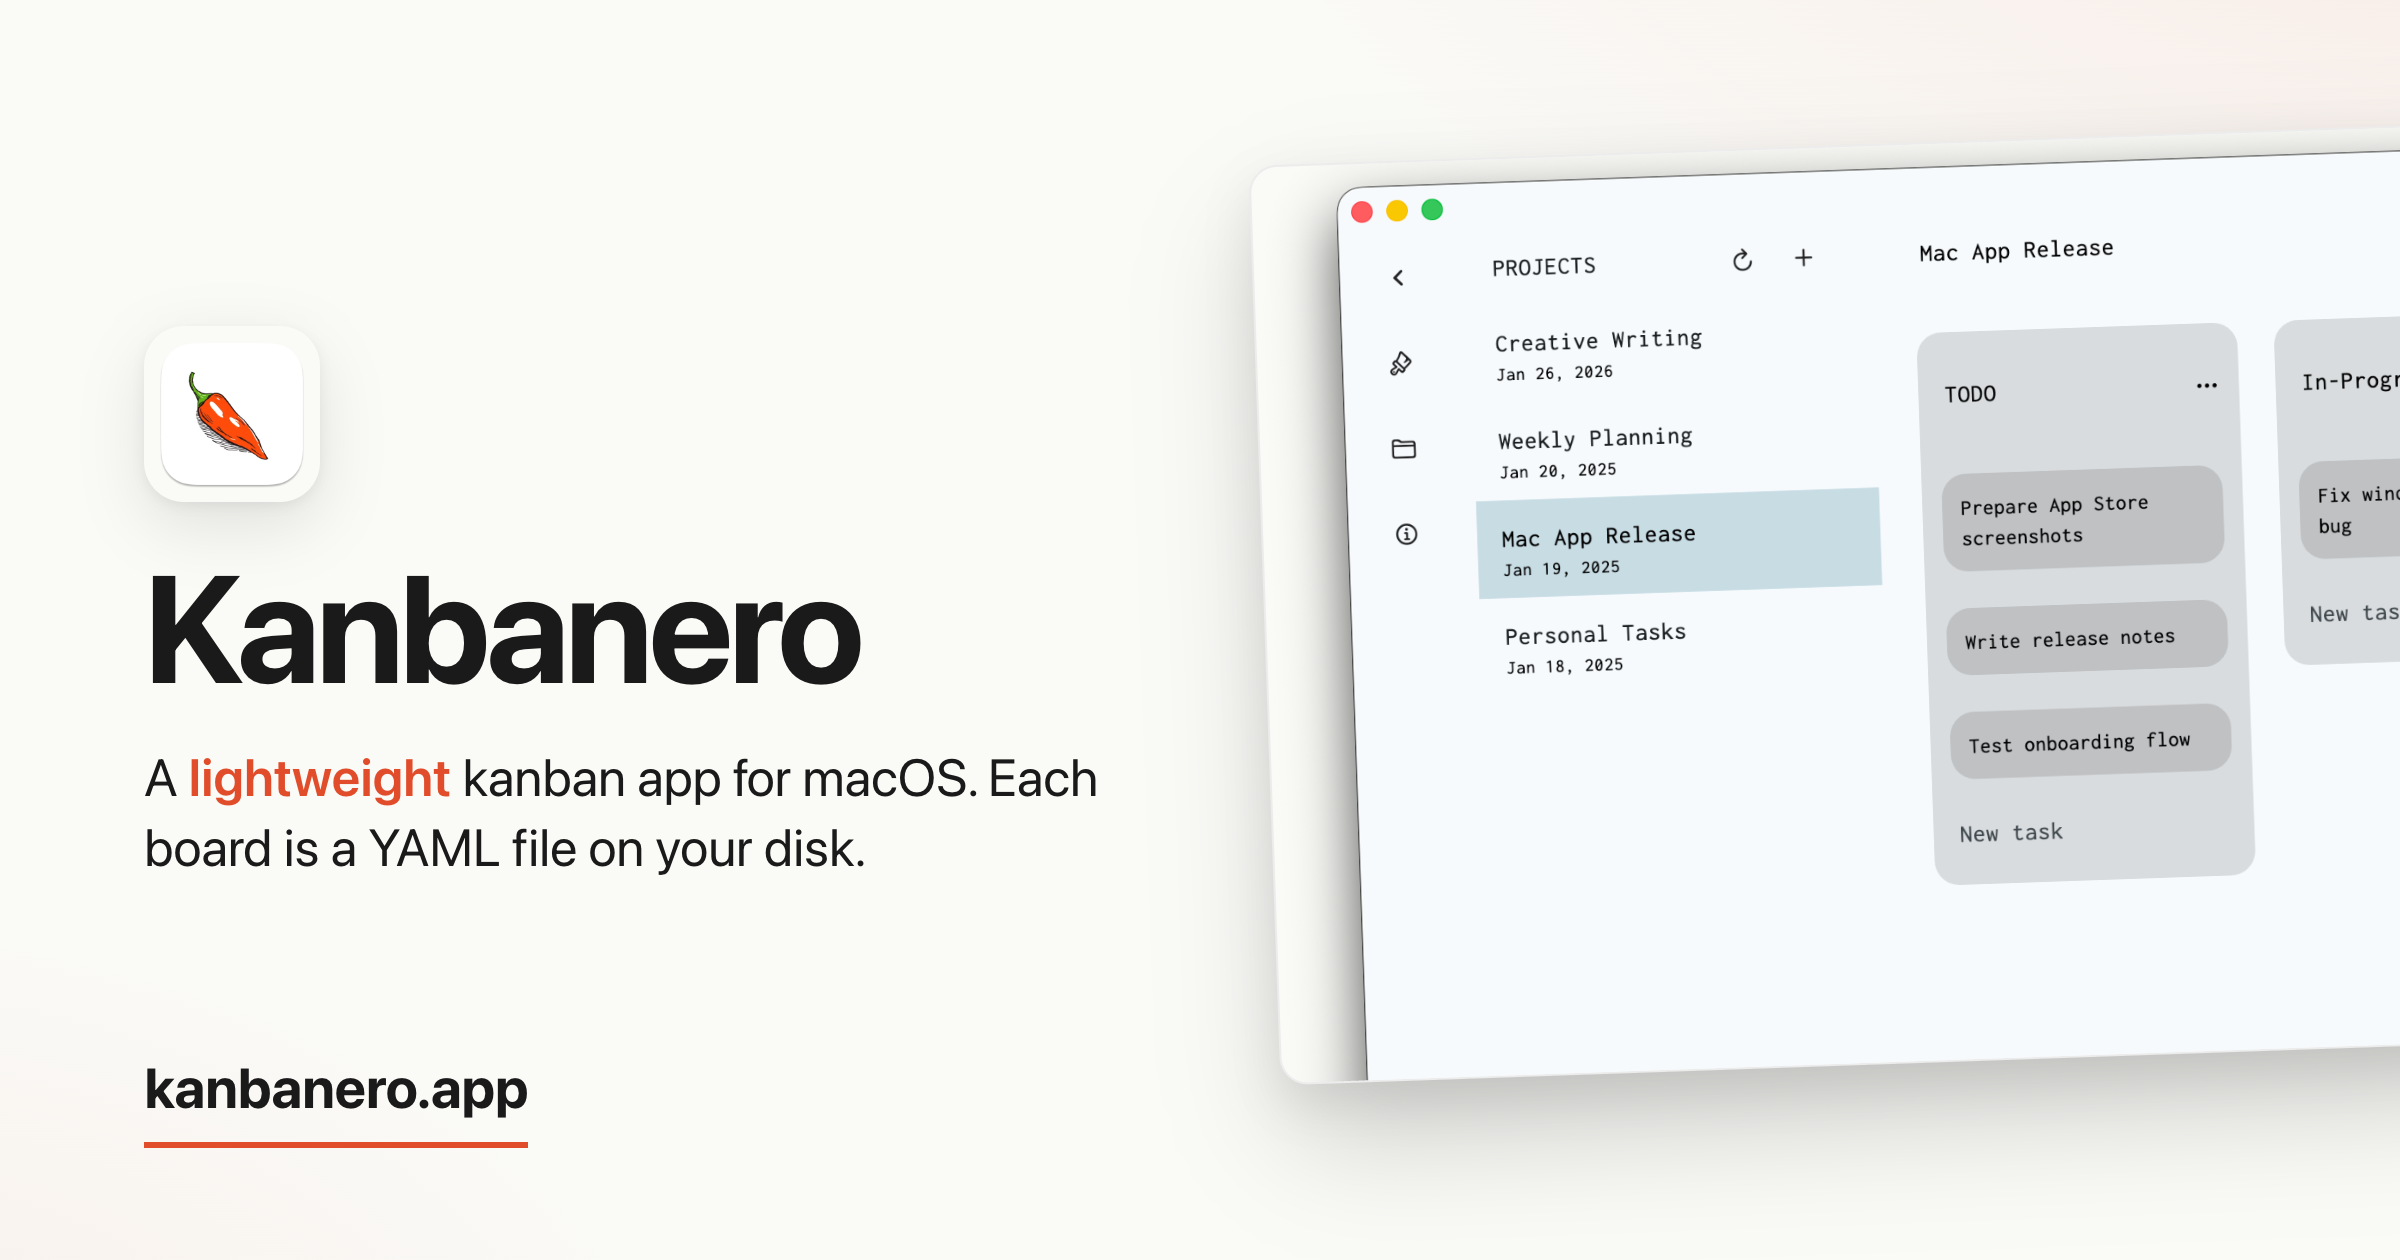
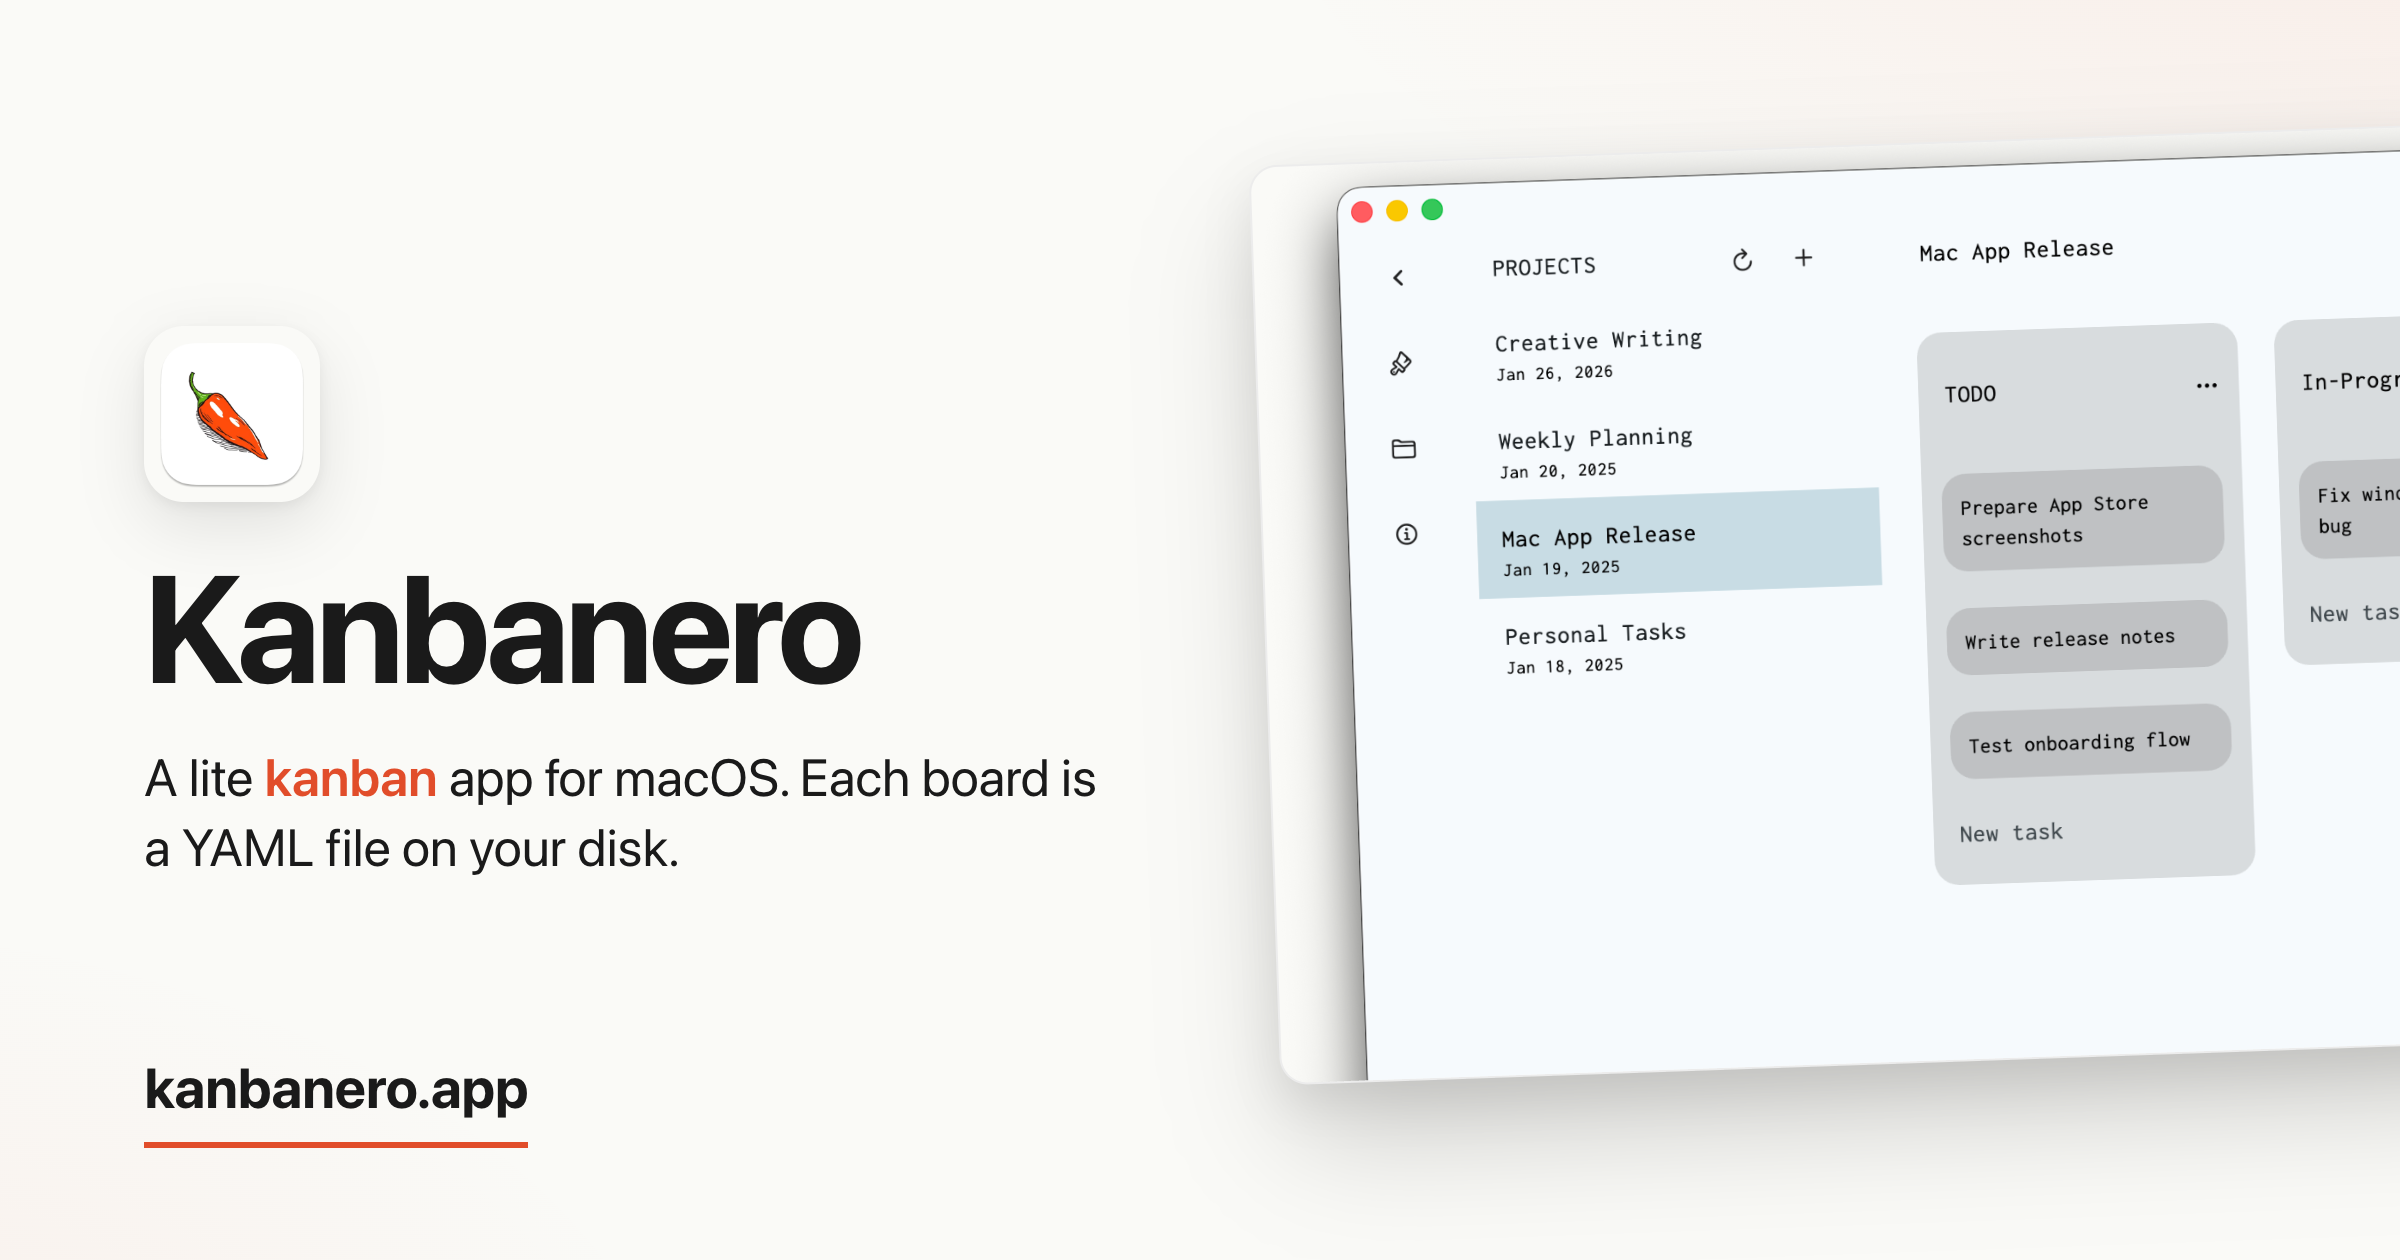
emph kanban

Changed region(s): [[0.0625, 0.5881, 0.4688, 0.7119]]

diff --git a/scripts/og-template.html b/scripts/og-template.html
@@ -117,7 +117,7 @@
     <div class="brand">
       <img class="icon" src="../images/icon.png" alt="" />
       <h1>Kanbanero</h1>
-      <p class="tagline">A <strong>lite</strong> kanban app for macOS. Each board is a YAML file on your disk.</p>
+      <p class="tagline">A lite <strong>kanban</strong> app for macOS. Each board is a YAML file on your disk.</p>
     </div>
     <div class="shot-wrap">
       <div class="shot-frame">
